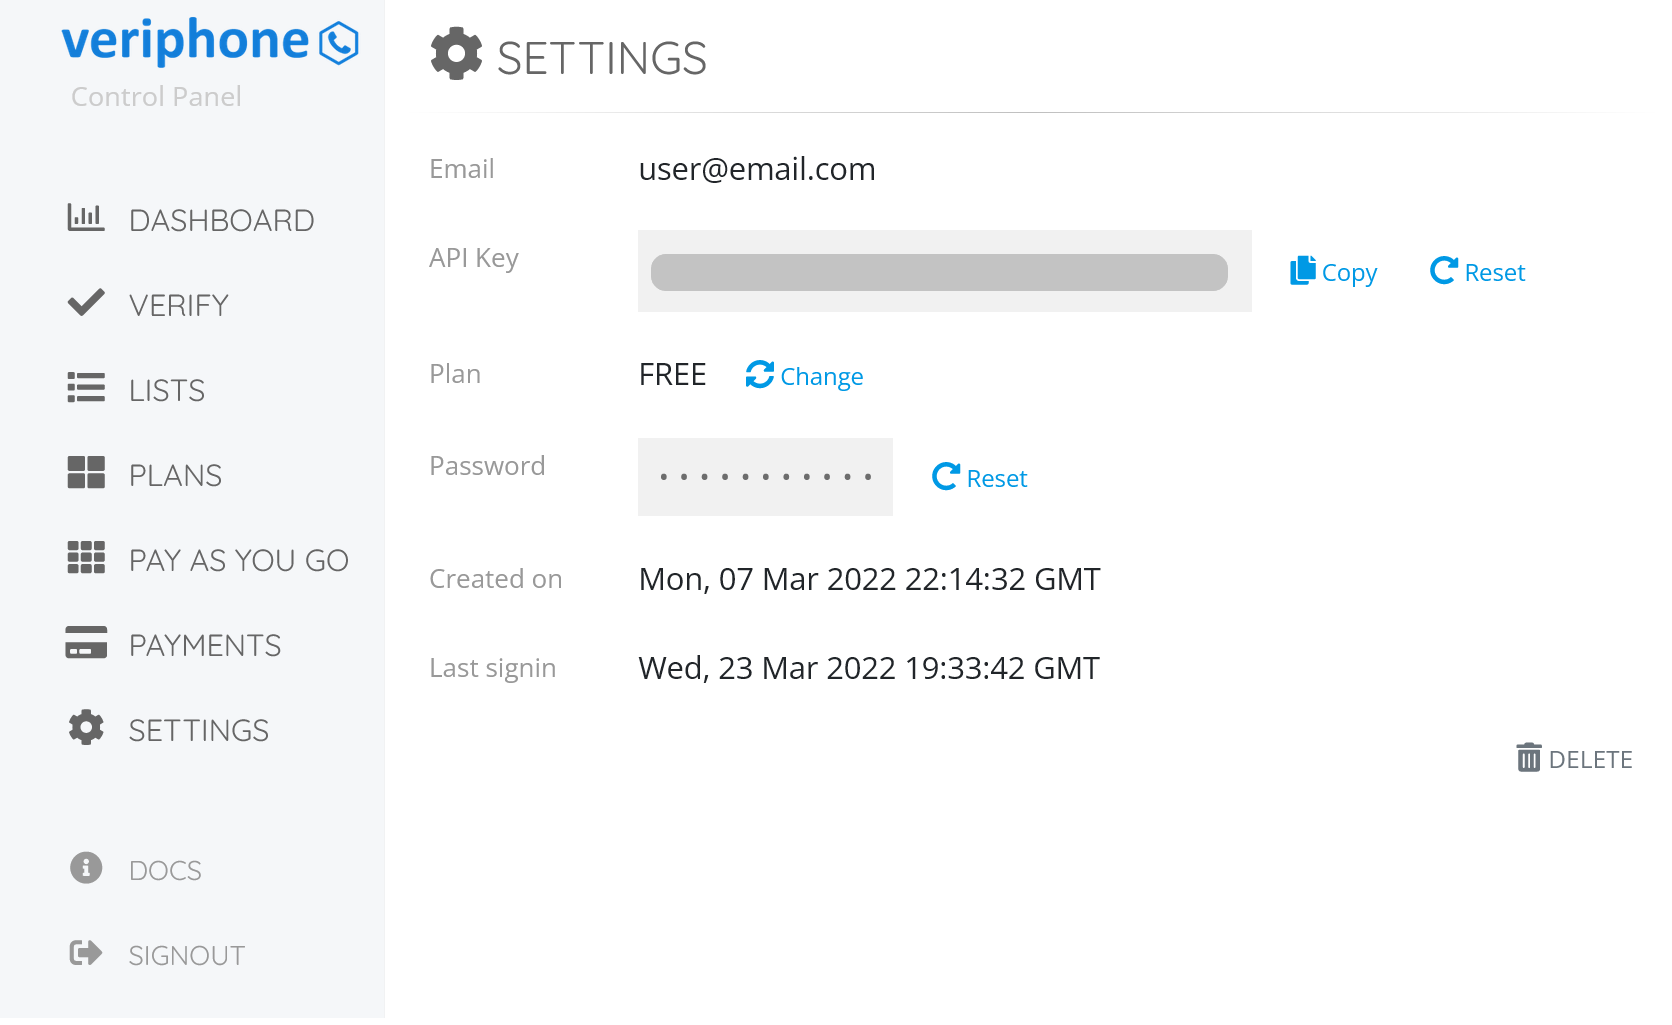
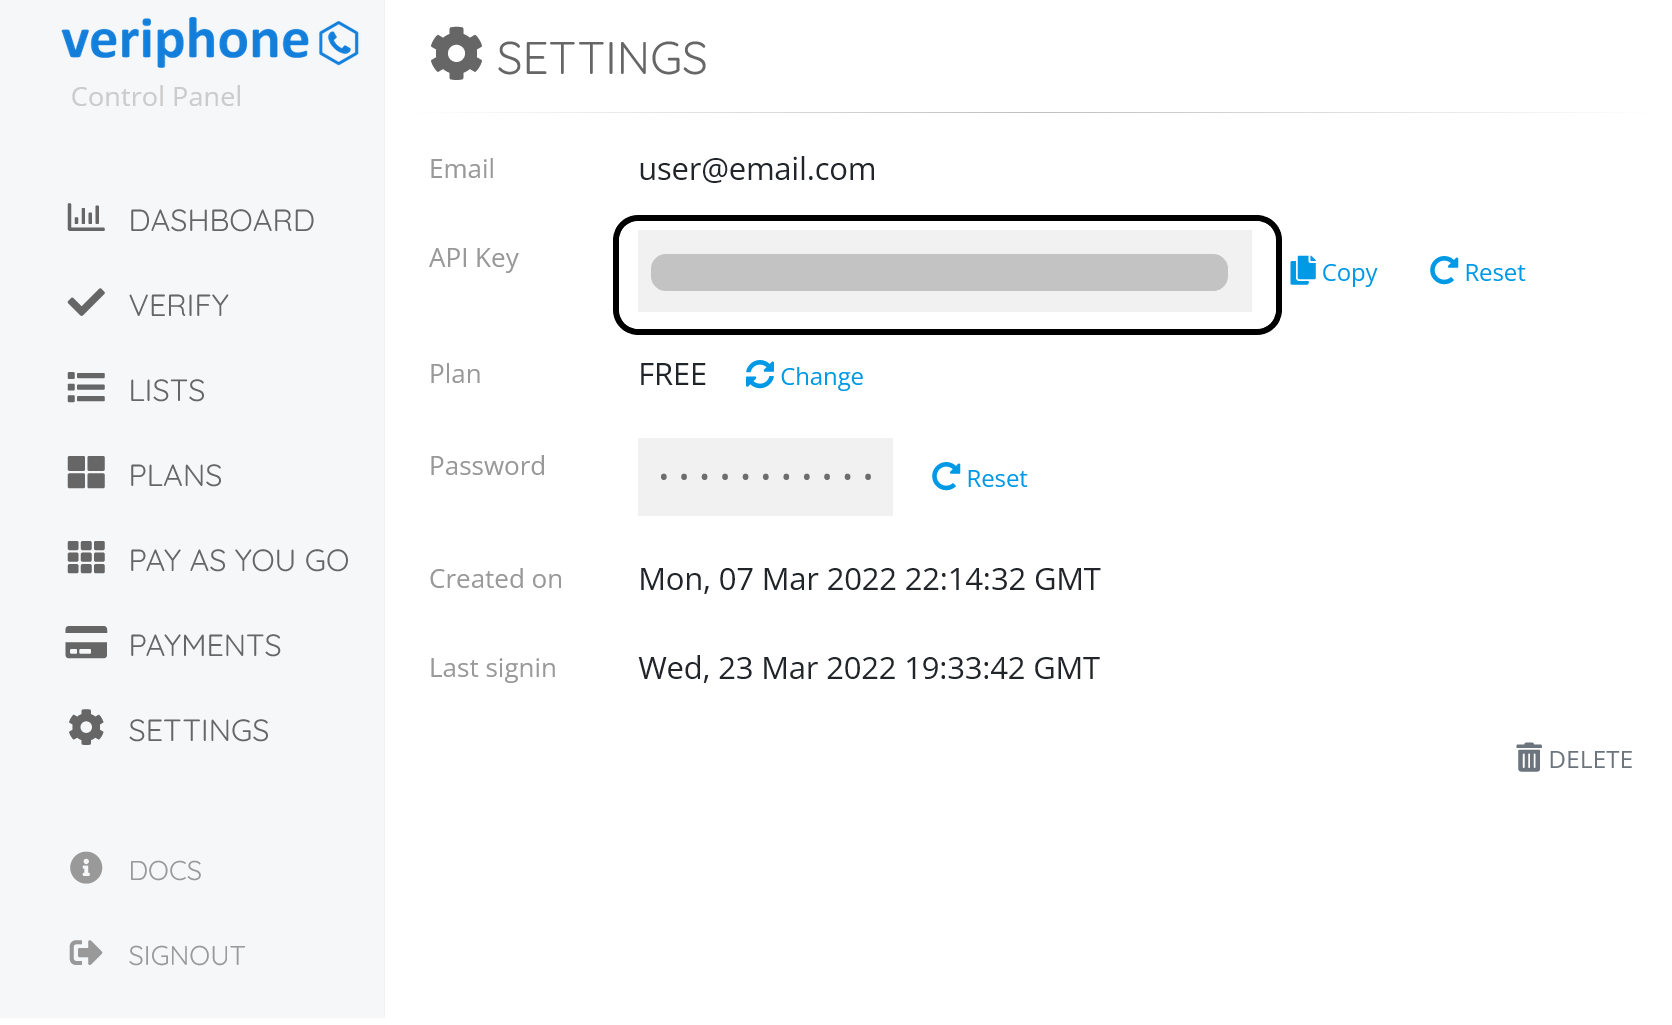
Updated images and content tabs

Changed region(s): [[0.3732, 0.2185, 0.7775, 0.3434], [0.3732, 0.1873, 0.7464, 0.2185], [0.3421, 0.2185, 0.3732, 0.3122]]

diff --git a/docs/connecting-data/connecting-to-apis-and-external-data/veriphone-api.md b/docs/connecting-data/connecting-to-apis-and-external-data/veriphone-api.md
@@ -64,21 +64,19 @@ Enter any name that will help you recognize this data source within your query w
 ### API Key
 An API key is generated within your account page. The following steps will navigate you to its location. Once created, copy the key and enter it in the Veriphone form under 'API key'.
 
-!!! example "Steps for Getting the API Key"
+##### Steps for Getting the API Key
 
-    === "1. Dashboard"
+=== "1. Dashboard"
 
-        In your Veriphone dashboard, go to your account settings by clicking on the **SETTINGS** button or the blue button.
-    
-        ![Home Page][image-7]
+    In your Veriphone dashboard, go to your account settings by clicking on the **SETTINGS** button or the blue button.
 
-    === "2. API Key"
+    ![Home Page][image-7]
 
-        Here you can reset your API token.    
+=== "2. API Key"
 
-        ![API Key][image-8]
-        
+    Here you can reset your API token.    
 
+    ![API Key][image-8]
 
 
 ## Endpoints
